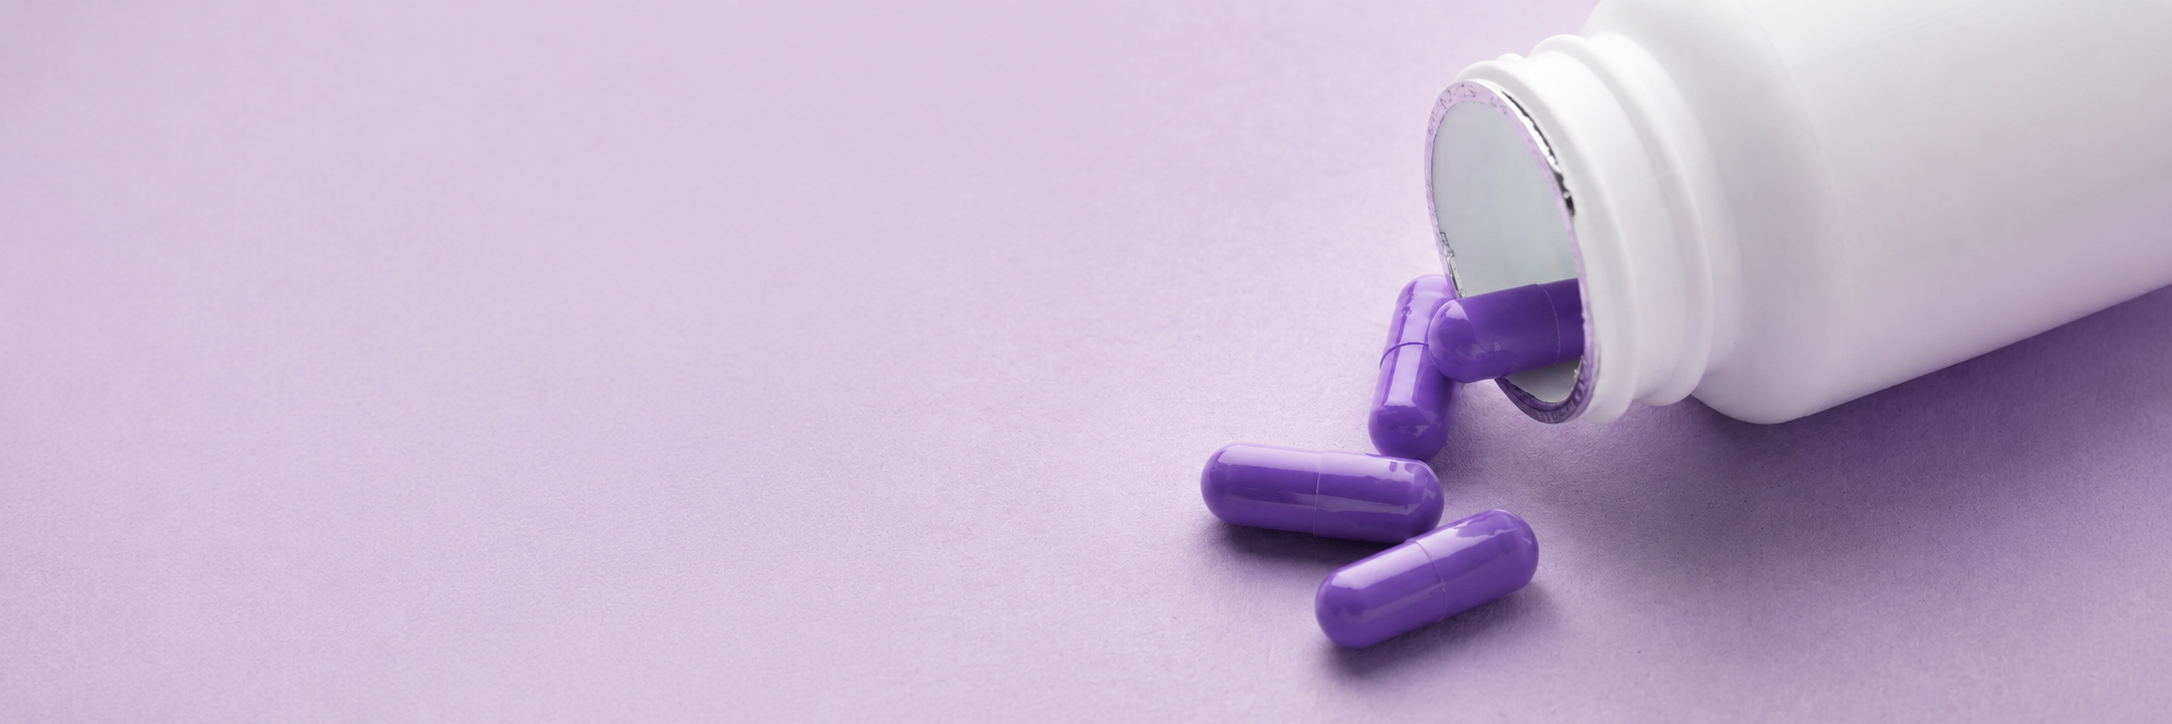
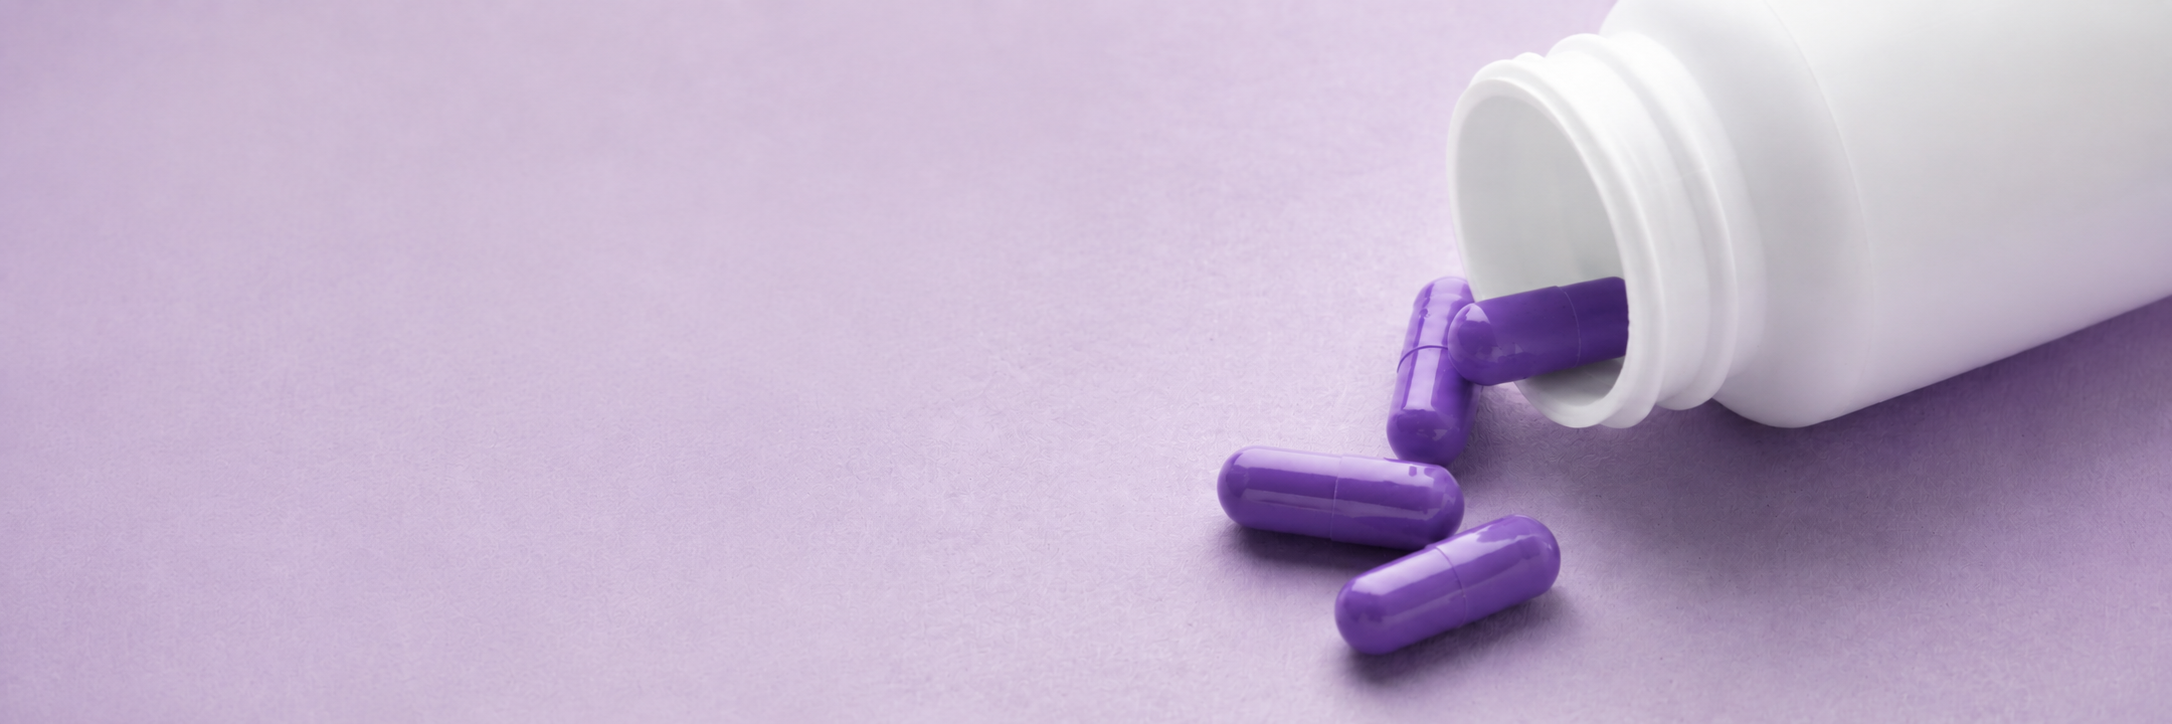
Replace hero carousel images with AI-generated videos
All four hero slides now play cinematic product videos (1080p/24fps)
generated from the original banners, with poster fallbacks, freeze on
last frame, and replay synced to the carousel cycle (now 5s per slide).

diff --git a/src/components/HeroVideo.tsx b/src/components/HeroVideo.tsx
@@ -1,0 +1,49 @@
+"use client";
+
+import { useEffect, useRef } from "react";
+
+export function HeroVideo({
+  src,
+  poster,
+  label,
+  className,
+}: {
+  src: string;
+  poster: string;
+  label: string;
+  className?: string;
+}) {
+  const ref = useRef<HTMLVideoElement>(null);
+
+  // O vídeo não usa loop: toca uma vez e congela no último frame. Rebobina e
+  // toca de novo sempre que o slide entra em cena — animationstart cobre a
+  // primeira exibição (após o animation-delay) e animationiteration as voltas
+  // seguintes do carrossel (a animação .hero-slide roda no próprio elemento).
+  useEffect(() => {
+    const video = ref.current;
+    if (!video) return;
+    const replay = () => {
+      video.currentTime = 0;
+      video.play().catch(() => {});
+    };
+    video.addEventListener("animationstart", replay);
+    video.addEventListener("animationiteration", replay);
+    return () => {
+      video.removeEventListener("animationstart", replay);
+      video.removeEventListener("animationiteration", replay);
+    };
+  }, []);
+
+  return (
+    <video
+      ref={ref}
+      src={src}
+      poster={poster}
+      autoPlay
+      muted
+      playsInline
+      aria-label={label}
+      className={className}
+    />
+  );
+}

diff --git a/src/components/Hero.tsx b/src/components/Hero.tsx
@@ -1,38 +1,33 @@
-import Image from "next/image";
+import { HeroVideo } from "./HeroVideo";
 import { Reveal } from "./Reveal";
 
 export function Hero() {
   return (
     <section id="topo" className="relative h-[640px]">
       <div className="absolute inset-0 overflow-hidden">
-        <Image
-          src="/images/hero-banner.png"
-          alt="Mulher aplicando um creme hidratante Dermaflora no rosto, em ambiente claro e natural"
-          fill
-          priority
-          sizes="100vw"
-          className="hero-slide object-cover object-[68%_center] md:object-[75%_center]"
+        <HeroVideo
+          src="/videos/hero-video-1.mp4"
+          poster="/images/hero-banner.png"
+          label="Mulher aplicando um creme hidratante Dermaflora no rosto, em ambiente claro e natural"
+          className="hero-slide absolute inset-0 h-full w-full object-cover object-[68%_center] md:object-[75%_center]"
         />
-        <Image
-          src="/images/hero-banner-2.png"
-          alt="Sérum Dermaflora em composição entre flores de cerejeira"
-          fill
-          sizes="100vw"
-          className="hero-slide object-cover object-[39%_center] md:object-[8%_center]"
+        <HeroVideo
+          src="/videos/hero-video-2.mp4"
+          poster="/images/hero-banner-2.png"
+          label="Sérum Dermaflora em composição entre flores de cerejeira ao entardecer"
+          className="hero-slide absolute inset-0 h-full w-full object-cover object-[39%_center] md:object-[8%_center]"
         />
-        <Image
-          src="/images/hero-banner-3.png"
-          alt="Nécessaire Dermaflora com fórmulas manipuladas sendo organizada"
-          fill
-          sizes="100vw"
-          className="hero-slide object-cover object-[70%_center] md:object-[78%_center]"
+        <HeroVideo
+          src="/videos/hero-video-3.mp4"
+          poster="/images/hero-banner-3.png"
+          label="Mão retirando um produto Dermaflora de dentro de uma nécessaire lilás"
+          className="hero-slide absolute inset-0 h-full w-full object-cover object-[70%_center] md:object-[78%_center]"
         />
-        <Image
-          src="/images/hero-banner-4.png"
-          alt="Cápsulas manipuladas Dermaflora derramando de um frasco branco"
-          fill
-          sizes="100vw"
-          className="hero-slide object-cover object-[65%_center] md:object-[72%_center]"
+        <HeroVideo
+          src="/videos/hero-video-4.mp4"
+          poster="/images/hero-banner-4.png"
+          label="Cápsulas manipuladas Dermaflora derramando de um frasco branco"
+          className="hero-slide absolute inset-0 h-full w-full object-cover object-[65%_center] md:object-[72%_center]"
         />
         <div className="absolute inset-0 bg-gradient-to-r from-df-warm-100 via-df-warm-100/80 to-transparent" />
         <div className="absolute inset-0 bg-gradient-to-t from-df-warm-100/70 via-transparent to-transparent md:from-transparent" />

diff --git a/src/app/globals.css b/src/app/globals.css
@@ -149,20 +149,20 @@ body {
 
 @keyframes hero-slide {
   0% { opacity: 0; }
-  3% { opacity: 1; }
-  21% { opacity: 1; }
+  3.5% { opacity: 1; }
+  21.5% { opacity: 1; }
   25% { opacity: 0; }
   100% { opacity: 0; }
 }
 
 .hero-slide {
-  animation: hero-slide 24s ease-in-out infinite backwards;
+  animation: hero-slide 20s ease-in-out infinite backwards;
 }
 
 .hero-slide:nth-child(1) { animation-delay: 0s; }
-.hero-slide:nth-child(2) { animation-delay: 6s; }
-.hero-slide:nth-child(3) { animation-delay: 12s; }
-.hero-slide:nth-child(4) { animation-delay: 18s; }
+.hero-slide:nth-child(2) { animation-delay: 5s; }
+.hero-slide:nth-child(3) { animation-delay: 10s; }
+.hero-slide:nth-child(4) { animation-delay: 15s; }
 
 @media (prefers-reduced-motion: reduce) {
   .hero-slide {